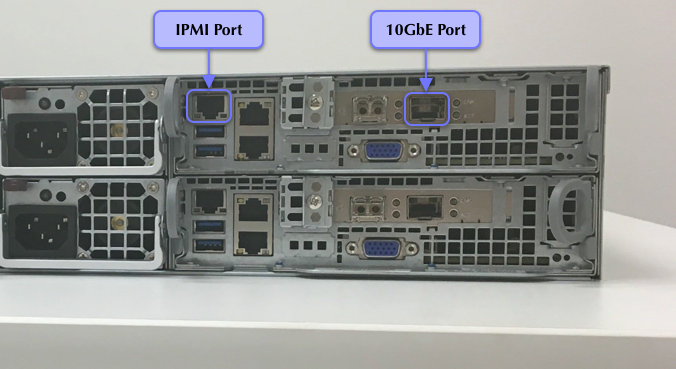
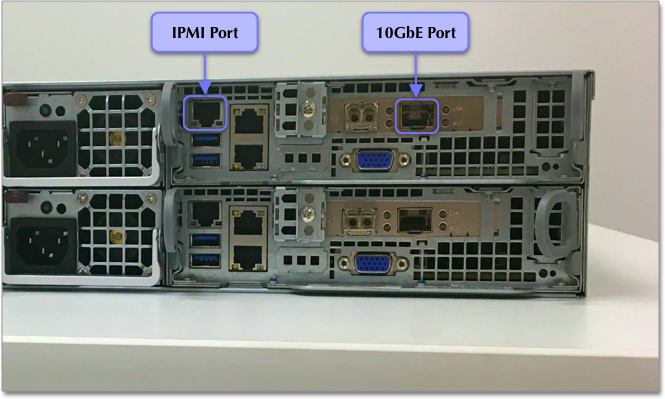
added shadows and borders to haswell images

diff --git a/_reference/tscli-command-ref.md b/_reference/tscli-command-ref.md
@@ -1,14 +1,14 @@
 ---
 title: [tscli command reference]
 last_updated: 10/17/2019
-summary: "The ThoughtSpot command line interface, or `tscli`, is an administration interface for the cluster. Use `tscli` to take snapshots (backups) of data, apply
+summary: "The ThoughtSpot command line interface, or tscli, is an administration interface for the cluster. Use tscli to take snapshots (backups) of data, apply
 updates, stop and start the services, and view information about the system.
 This reference defines each subcommand."
 sidebar: mydoc_sidebar
 permalink: /:collection/:path.html
 ---
 
-The command returns `0` on success, and a non-zero exit codes on failure.
+The command returns `0` on success, and a non-zero exit code on failure.
 The `tscli` command logs errors to the `stderr` directory.
 
 {: id="tscli-command"}
@@ -23,15 +23,9 @@ tscli [-h]
       [--noautoconfig]
       [--autoconfig]
       [--yes]
-      [--cluster <<em>cluster</em>>]
-      [--zoo <<em>zookeeper</em>>]
-      [--username <<em>username</em>>]
-      [--identity_file <<em>identity_file</em>>]
-      {access, alert, ansible, backup, backup-policy, callhome, cassandra,
-       cluster, command, dr-mirror, etl, event, feature, fileserver,
-       firewall, hdfs, ipsec, ldap, logs, map-tiles, monitoring, nas,
-       node, patch, rpackage, saml, scheduled-pinboards, smtp, snapshot,
-       snapshot-policy, spot, sssd, ssl, storage, support,
+      [--cluster CLUSTER]
+      [--zoo ZOO]
+      {access, alert, ansible, backup, backup-policy, calendar, callhome, cassandra, cluster, command, dr-mirror, etl, event, feature, fileserver, firewall, hdfs, ipsec, ldap, logs, map-tiles, monitoring, nas, node, patch, rpackage, saml, scheduled-pinboards, set, smtp, snapshot, snapshot-policy, spot, sssd, ssl, storage, support,
        tokenauthentication}
 </pre>
 

diff --git a/_appliance/hardware/installing the smc.md b/_appliance/hardware/installing the smc.md
@@ -1,6 +1,6 @@
 ---
 title: [Installing the Super Micro Computer]
-last_updated: [10/22/2019]
+last_updated: [10/24/2019]
 summary: "Learn how to install the Super Micro Computer (SMC) Appliance."
 sidebar: mydoc_sidebar
 permalink: /:collection/:path.html
@@ -85,10 +85,10 @@ Depending on which version of the SMC appliance you have, Haswell or Skylight, y
 ### Appliance Power Button: The front of the SMC appliance
 
 {: id="smc-appliance-power-button"}
-### Haswell appliance
-![The power button on the front of the Haswell SMC appliance]({{ site.baseurl }}/images/smc-haswell-power-button-new.png "The power button is at the front of the Haswell appliance")
-### Skylight appliance
-![The power button on the front of the Skylight SMC appliance]({{ site.baseurl }}/images/smc-appliance-skylight-power-button.png "The power button is at the front of the Skylight appliance")
+
+| Haswell appliance | &#32; &#32; &#32; | Skylight appliance |
+| --- | --- | --- |
+|![The power button on the front of the Haswell SMC appliance]({{ site.baseurl }}/images/smc-haswell-power-button-new.png "The power button is at the front of the Haswell appliance") | &#32; | ![The power button on the front of the Skylight SMC appliance]({{ site.baseurl }}/images/smc-appliance-skylight-power-button.png "The power button is at the front of the Skylight appliance") |
 
 4. **Log in** Connect the keyboard and the mouse to the appliance, and log in using the *admin* user credentials for the console.
 
